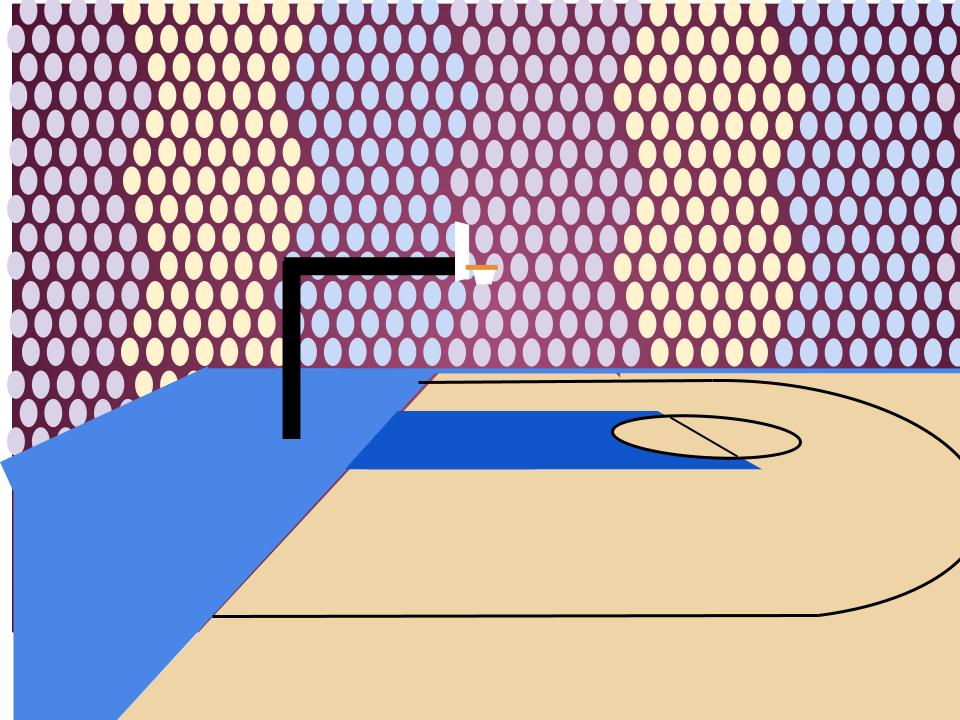
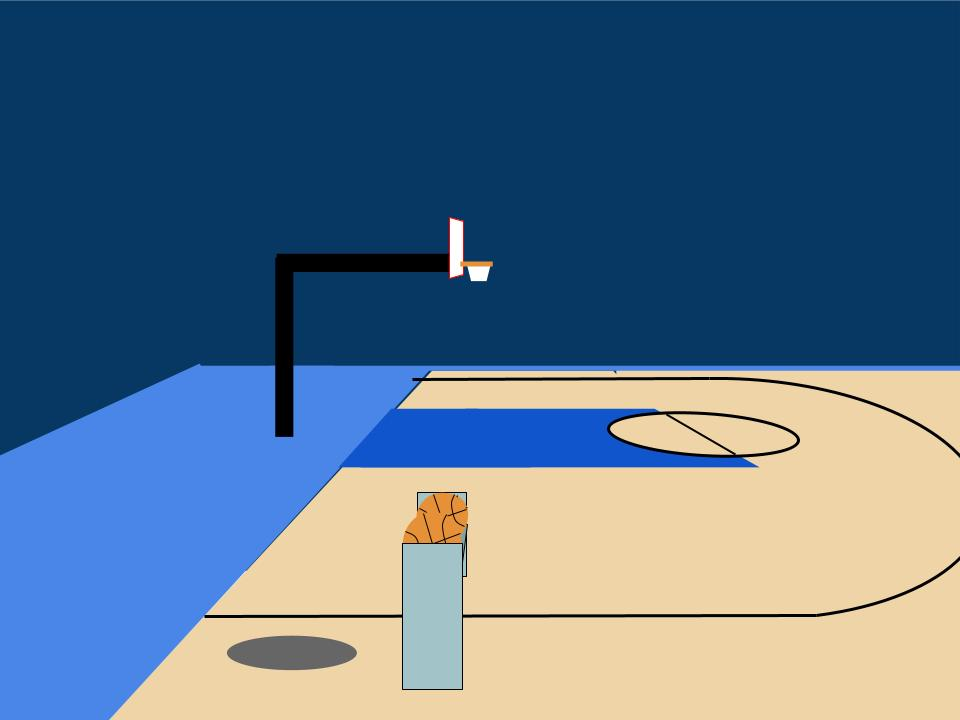
11/15 changes

diff --git a/game/game.py b/game/game.py
@@ -1,22 +1,23 @@
-import pygame, sprites
+import pygame, sprites, random
 
 
 
-
+#initialization
 pygame.init()
-screen_width = 750
-screen_height = 450
+screen_width = 950
+screen_height = 700
 screen = pygame.display.set_mode((screen_width, screen_height))
 game_state = "start_menu"
 
+clock = pygame.time.Clock()
+FPS = 6
 player = sprites.Player()
-background = pygame.image.load("backgrounds/Phyton Game Corner.jpg")
 
 def draw_start_menu():
-    screen.fill((0, 0, 0))
+    screen.fill((0, 255, 0))
     font = pygame.font.SysFont('arial', 40)
     title = font.render('My Game', True, (255, 255, 255))
-    start_button = font.render('Start', True, (255, 255, 255))
+    start_button = font.render('Start (with space)', True, (255, 255, 255))
     screen.blit(title, (screen_width/2 - title.get_width()/2, screen_height/2 - title.get_height()/2))
     screen.blit(start_button, (screen_width/2 - start_button.get_width()/2, screen_height/2 + start_button.get_height()/2))
     pygame.display.update()
@@ -38,12 +39,21 @@ def shoot():
     pass
 
 while True: 
-
+   clock.tick(FPS)
    for event in pygame.event.get(): 
        if event.type == pygame.QUIT:
            pygame.quit()
            quit()
-
    if game_state == "start_menu":
        draw_start_menu()
-        
+       keys = pygame.key.get_pressed()
+       if keys[pygame.K_SPACE]:
+            game_state = "game"
+            game_over = False
+   if game_state == " game":
+        background = pygame.image.load("backgrounds/Phyton Game Corner 2.jpg")
+        player = pygame.image.load("sprites/Character1.png")
+        screen.blit(background, (0, 0))
+        screen.blit(player, (240, 365))
+        pygame.display.update()
+   #print(pygame.mouse.get_pos()) 250 425

diff --git a/game/sprites.py b/game/sprites.py
@@ -5,10 +5,10 @@ class Player(pygame.sprite.Sprite):
     def __init__(self):
        # Call the parent class (Sprite) constructor
        pygame.sprite.Sprite.__init__(self)
-
+       self.frame = 1  #1, 2, or 3
        # Create an image of the block, and fill it with a color.
        # This could also be an image loaded from the disk.
-       self.image = pygame.image.load("backgrounds/Phyton Game Corner 2.jpg") #placeholder image
+       self.image = pygame.image.load("sprites/Character1.png") 
        self.image.convert()
 
        # Fetch the rectangle object that has the dimensions of the image
@@ -16,6 +16,10 @@ class Player(pygame.sprite.Sprite):
        self.rect = self.image.get_rect()
 
     def update(self) -> None:
+        self.image = pygame.image.load("sprites/Character{}.png".format(self.frame))
+        self.frame += 1
+        if self.frame > 3:
+            self.frame %= 3
         pass
     #be sure to override update to change animation
 
@@ -38,7 +42,7 @@ class Ball(pygame.sprite.Sprite):
         pass
     #be sure to override update to change animation
 
-class Cart(pygame.sprite.Sprite):
+class Bar(pygame.sprite.Sprite):
 
     def __init__(self):
        # Call the parent class (Sprite) constructor
@@ -57,7 +61,7 @@ class Cart(pygame.sprite.Sprite):
         pass
     #be sure to override update to change animation
 
-class Hoop(pygame.sprite.Sprite):
+class Cart(pygame.sprite.Sprite):
 
     def __init__(self):
        # Call the parent class (Sprite) constructor
